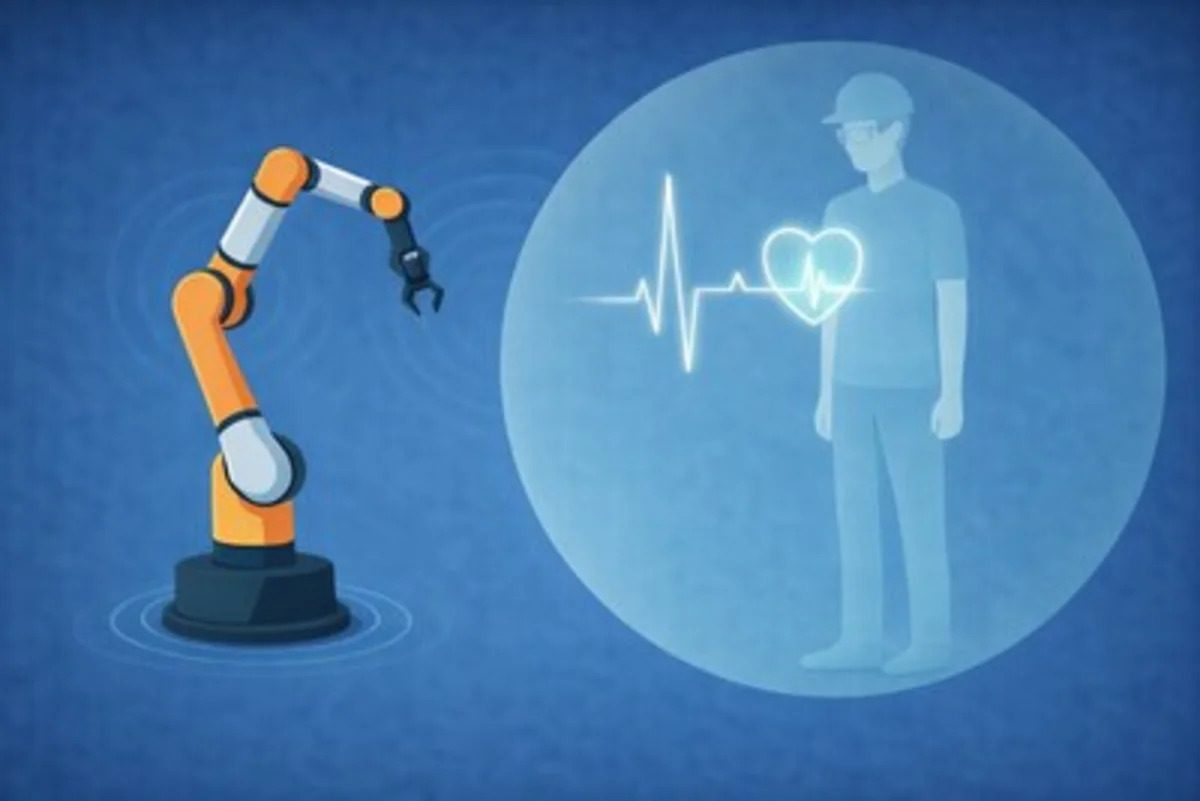
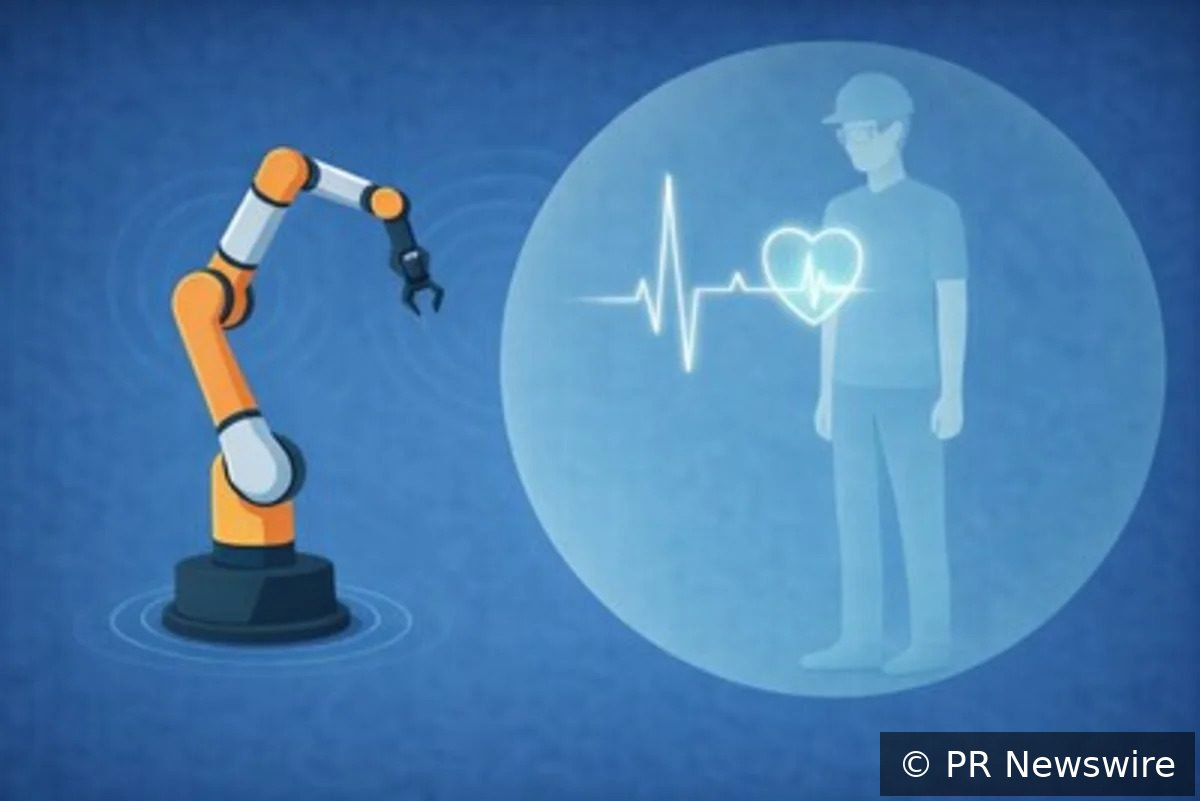
Press: real article images + credit/watermark on licensed (Getty/wire) shots
Merge Cowork's fetched hero images (8 outlets) and og:description text, and
add source attribution on the two licensed images: a burned-in "© <credit>"
watermark on the JPG plus an on-card credit overlay and caption — Forbes
(Getty Images) and Yahoo (PR Newswire). Others keep branded placeholders.

Note: a credit is attribution, not a license.

Claude-Session: https://claude.ai/code/session_01JNEMnRCXh9Ym6A5cvvKHhC

Changed region(s): [[0.7092, 0.9051, 1.0, 0.9988]]

diff --git a/site/styles.css b/site/styles.css
@@ -707,6 +707,7 @@ a.showcase-shot:hover img { transform: scale(1.03); }
 .wr-news-thumb { flex: 0 0 138px; background-size: cover; background-position: center; position: relative; }
 .wr-news-thumb--ph { display: flex; flex-direction: column; justify-content: center; padding: 14px; background: radial-gradient(130% 150% at 0% 0%, #201e1b 0%, #111 62%); border-right: 3px solid var(--gold-400); }
 .wr-news-badge { position: absolute; bottom: 10px; left: 10px; display: inline-flex; align-items: center; height: 21px; max-width: calc(100% - 20px); padding: 0 9px; border-radius: 5px; font-size: 10px; font-weight: 700; letter-spacing: .02em; color: #fff; white-space: nowrap; overflow: hidden; text-overflow: ellipsis; box-shadow: 0 2px 6px rgba(0,0,0,.28); }
+.wr-news-credit { position: absolute; top: 8px; right: 8px; padding: 2px 6px; border-radius: 4px; background: rgba(0,0,0,0.55); color: rgba(255,255,255,0.92); font-size: 9px; font-weight: 600; letter-spacing: .02em; }
 .wr-news-thumb-eyebrow { position: absolute; top: 12px; left: 14px; font-size: 8px; font-weight: 700; letter-spacing: .14em; text-transform: uppercase; color: rgba(255,205,60,.7); }
 .wr-news-thumb-outlet { font-family: var(--font-display); font-size: 17px; line-height: 1.12; color: #fff; }
 .wr-news-thumb-foot { position: absolute; bottom: 11px; left: 14px; font-size: 9px; font-weight: 700; color: var(--gold-400); }

diff --git a/site/writing.js b/site/writing.js
@@ -167,6 +167,7 @@
       var thumb = m.image
         ? '<div class="wr-news-thumb" style="background-image:url(\'' + esc(m.image) + '\')">' +
             '<span class="wr-news-badge" style="background:' + brand + '">' + esc(m.outlet) + '</span>' +
+            (m.credit ? '<span class="wr-news-credit">© ' + esc(m.credit) + '</span>' : '') +
           '</div>'
         : '<div class="wr-news-thumb wr-news-thumb--ph" style="border-right-color:' + brand + '">' +
             '<span class="wr-news-thumb-eyebrow">In the news</span>' +
@@ -179,7 +180,7 @@
             '<span class="wr-news-outlet">' + esc(m.outlet) + '</span>' +
             '<h4 class="wr-news-title">' + esc(m.title) + '</h4>' +
             (m.desc ? '<p class="wr-news-desc">' + esc(m.desc) + '</p>' : '') +
-            '<span class="wr-news-url">' + esc(disp) + '</span>' +
+            '<span class="wr-news-url">' + esc(disp) + (m.credit ? ' · Photo: ' + esc(m.credit) : '') + '</span>' +
           '</div>' +
         '</a>';
     }).join('');
